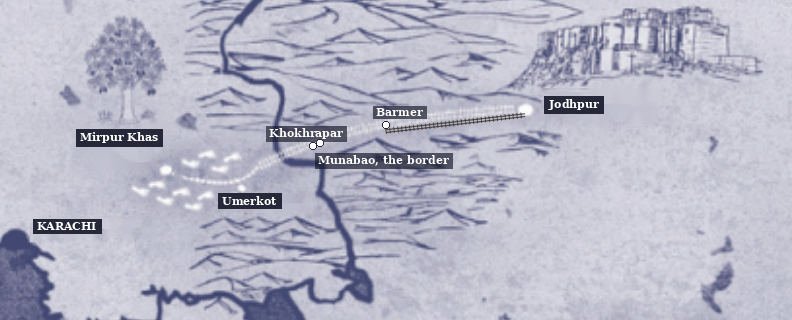
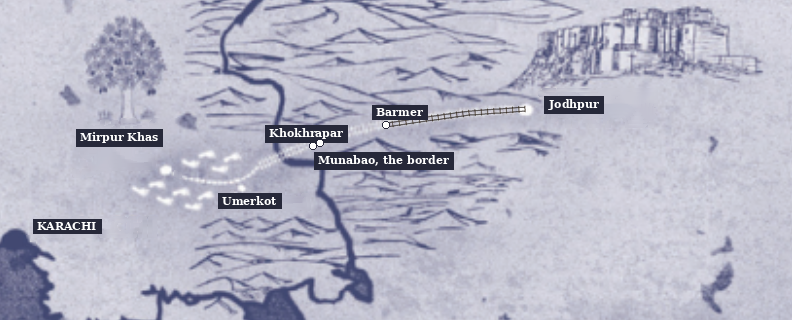
Notation fixes

Changed region(s): [[0.3333, 0.375, 0.5758, 0.5312], [0.4545, 0.3125, 0.6667, 0.4375]]

diff --git a/hacks/TheNightTrail/js/data.js b/hacks/TheNightTrail/js/data.js
@@ -58,7 +58,7 @@ const INTRO_SLIDES = [
     heading: "A Line Is Drawn",
     date: "Mirpur Khas, August 1947",
     tag: "Institutional Oppression · Expose the Problem · The System Exposed",
-    body: "Independence comes with a price. The British have decided to split the land in two: Pakistan for the Muslim-majority regions, and India for the rest. Papa says governments made this decision, not the families who will have to live with it. The Indian Independence Act, passed by the British Parliament, directly caused the division into two countries (Britannica School, “Partition of India”; Congressional Research Service, IF13000).",
+    body: "Independence comes with a price. The British have decided to split the land in two: Pakistan for the Muslim-majority regions, and India for the rest. Papa says governments made this decision, not the families who will have to live with it. The Indian Independence Act, passed by the British Parliament, directly caused the division into two countries (Wikipedia, “Partition of India”).",
   },
   {
     heading: "An Idea Worth Killing For",
@@ -69,7 +69,7 @@ const INTRO_SLIDES = [
   {
     heading: "Sir Cyril Radcliffe",
     date: "Mirpur Khas, August 1947",
-    body: "Papa read in the newspaper that the border was drawn by a British lawyer who had never set foot in India before this year. He worked from maps, in just a few weeks. The line cuts through provinces, villages, and families almost overnight. Nobody asked us.",
+    body: "Papa read in the newspaper that the border was drawn by a British lawyer who had never been east of Paris and was given about five weeks to draw the line (Wikipedia, “Cyril Radcliffe”). The line cuts through provinces, villages, and families almost overnight. Nobody asked us.",
   },
   {
     heading: "Mirpur Khas",
@@ -79,7 +79,7 @@ const INTRO_SLIDES = [
   {
     heading: "The Largest Migration in History",
     date: "Mirpur Khas, August 1947",
-    body: "Papa says about 15 million people will cross the new border in both directions. Hindus and Sikhs are moving toward India, and Muslims toward Pakistan. Many will not survive the journey.",
+    body: "Papa says between 12 and 20 million people will be displaced along religious lines as the new border is drawn (Wikipedia, “Partition of India”). Hindus and Sikhs are moving toward India, and Muslims toward Pakistan. Many will not survive the journey.",
   },
   {
     heading: "A Choice",
@@ -90,7 +90,7 @@ const INTRO_SLIDES = [
   {
     heading: "Not by Train",
     date: "Mirpur Khas, August 1947",
-    body: "The railway would be faster, but trains have become targets for violence from every side, and word is spreading about trains that never reach their destination. Papa won’t risk it. We will walk, joining a slow caravan of families leaving Sindh.",
+    body: "The railway would be faster, but trains have become targets for violence from every side (Wikipedia, “1947 Amritsar train massacre”; Wikipedia, “1947 Kamoke train massacre”), and word is spreading about trains that never reach their destination. Papa won’t risk it. We will walk, joining a slow caravan of families leaving Sindh.",
   },
   {
     heading: "This Is Their Story",
@@ -106,29 +106,30 @@ const EPILOGUE_SLIDES = [
     heading: "1947: The First War",
     date: "1947",
     tag: "Revolution and Reflection · Mirror to Society",
-    body: "Only months after we crossed, India and Pakistan are at war over Kashmir, a princely state neither side will let go of (Britannica, “Kashmir”). The same two-nation idea that drew our line now draws soldiers to a mountain border. The violence of Partition did not end at the crossing. It became policy, then army, then war.",
+    body: "Only months after we crossed, India and Pakistan are at war over Kashmir, a princely state neither side will let go of (Wikipedia, “Indo-Pakistani war of 1947–1948”). The same two-nation idea that drew our line now draws soldiers to a mountain border. The violence of Partition did not end at the crossing. It became policy, then army, then war.",
   },
   {
     heading: "1965: The Second War",
     date: "1965",
     tag: "Revolution and Reflection · Mirror to Society",
-    body: "Eighteen years later, the two countries are at war again, still over Kashmir and still over the same line. A ceasefire is brokered, and a peace agreement is signed in Tashkent (Britannica, “Tashkent Declaration”). It holds for a while, then it doesn’t. The idea that split a subcontinent into us and them has outlived the generation that walked through Partition.",
+    body: "Eighteen years later, the two countries are at war again, still over Kashmir and still over the same line. A UN ceasefire ends the fighting, and a peace agreement is signed in Tashkent, brokered by the Soviet Union (Wikipedia, “Tashkent Declaration”). It holds for a while, then it doesn’t. The idea that split a subcontinent into us and them has outlived the generation that walked through Partition.",
   },
   {
     heading: "1999: Kargil",
     date: "1999",
     tag: "Revolution and Reflection · Mirror to Society",
-    body: "By 1999 both India and Pakistan possess nuclear weapons. That summer, fighting breaks out in the mountains above Kargil (Britannica, “Kargil War”). Ordinary soldiers, following orders, die over high, cold ground for a line drawn by people long dead. The ideology of 1947 is no longer even argued over. It has become simply how things are, worth any cost to defend.",
+    body: "By 1999 both India and Pakistan possess nuclear weapons. That summer, fighting breaks out in the mountains above Kargil (Wikipedia, “Kargil War”). Ordinary soldiers, following orders, die over high, cold ground for a line drawn by people long dead. The ideology of 1947 is no longer even argued over. It has become simply how things are, worth any cost to defend.",
   },
   {
     heading: "2025: Operation Sindoor",
     date: "2025",
     tag: "Revolution and Reflection · Mirror to Society",
-    body: "In April 2025, 26 civilians were killed in an attack on tourists in the Baisaran Valley near Pahalgam, Jammu and Kashmir (Al Jazeera, April 2025). India attributed the attack to terrorists, and in May it struck alleged terrorist targets inside Pakistan. The operation takes its name from sindoor, the red vermilion worn by married Hindu women, for the wives the attack suddenly widowed. Violence becomes retaliation becomes, again, a ceasefire within days. The pattern set in August 1947 repeats itself, smaller each time, never finished.",
+    body: "In April 2025, 26 civilians were killed in an attack on tourists in the Baisaran Valley near Pahalgam, Jammu and Kashmir, where gunmen asked victims their religion before shooting them (Al Jazeera, April 23, 2025; France 24, April 30, 2025). India attributed the attack to terrorists and on May 7 struck alleged terrorist targets inside Pakistan (Wikipedia, “Operation Sindoor”; Congressional Research Service, IF13000). The operation takes its name from sindoor, the red vermilion worn by married Hindu women, for the wives the attack suddenly widowed. Violence becomes retaliation becomes, again, a ceasefire within days. The pattern set in August 1947 repeats itself, smaller each time, never finished.",
   },
   {
     heading: "A Line That Hasn't Closed",
     date: "Years later",
+    analysis: "What this shows about human nature: when differences of culture, ethnicity, or religion are prominent, people tend to divide themselves into superior and inferior groups. The warning is never to let a government or outside force divide people by religion, and the hope is to find unity in our community and make diversity a priority.",
     tag: "Revolution and Reflection · Mirror to Society",
     body: "More than seventy-five years after Partition, the border that sent us walking into the Thar Desert by night is still being fought over, still being crossed, still ending lives on both sides. The ideology that justified one line has justified every war since. This is one family’s story, fictional and small. In one form or another, it happened to millions, and the oppression Partition set in motion, ideological, institutional, interpersonal, and the quiet internalized kind, never fully closed the line it drew.",
   },
@@ -136,13 +137,22 @@ const EPILOGUE_SLIDES = [
 
 const CITATIONS = [
   "Encyclopaedia Britannica, School Edition. “Partition of India.” https://school.eb.com/levels/high/article/partition-of-India/640159",
-  "Congressional Research Service. IF13000. https://www.congress.gov/crs-product/IF13000",
-  "Encyclopaedia Britannica. “Kashmir.” https://www.britannica.com/place/Kashmir-region-Indian-subcontinent/The-Kashmir-problem",
-  "Encyclopaedia Britannica. “Tashkent Declaration (1966).” https://www.britannica.com/event/Tashkent-Agreement",
-  "Encyclopaedia Britannica. “Kargil War (1999).” https://www.britannica.com/event/Kargil-War",
+  "Congressional Research Service. “India-Pakistan Conflict in Spring 2025,” IF13000, May 13, 2025. https://www.congress.gov/crs-product/IF13000",
+  "Wikipedia. “Partition of India.” https://en.wikipedia.org/wiki/Partition_of_India",
+  "Wikipedia. “Cyril Radcliffe.” https://en.wikipedia.org/wiki/Cyril_Radcliffe",
+  "Wikipedia. “Indo-Pakistani war of 1947–1948.” https://en.wikipedia.org/wiki/Indo-Pakistani_war_of_1947%E2%80%931948",
+  "Wikipedia. “Tashkent Declaration.” https://en.wikipedia.org/wiki/Tashkent_Declaration",
+  "Wikipedia. “Kargil War.” https://en.wikipedia.org/wiki/Kargil_War",
+  "Wikipedia. “Mirpur Khas.” https://en.wikipedia.org/wiki/Mirpur_Khas",
+  "Wikipedia. “1947 Amritsar train massacre.” https://en.wikipedia.org/wiki/1947_Amritsar_train_massacre",
+  "Wikipedia. “1947 Kamoke train massacre.” https://en.wikipedia.org/wiki/1947_Kamoke_train_massacre",
   "Al Jazeera. “‘Act of war’: What happened in Kashmir attack that killed 26 tourists?” April 23, 2025. https://www.aljazeera.com/news/2025/4/23/act-of-war-what-happened-in-kashmir-attack-that-killed-26-tourists",
+  "France 24. “‘Are you a Hindu?’: Kashmir attack survivors say gunmen asked their religion before opening fire.” April 30, 2025. https://www.france24.com/en/asia-pacific/20250430-are-you-a-hindu-kashmir-attack-survivors-say-gunmen-asked-religion-before-opening-fire-pakistan-india",
+  "Wikipedia. “Operation Sindoor.” https://en.wikipedia.org/wiki/Operation_Sindoor",
   "Hiranandani, Veera. The Night Diary.",
 ];
+
+const RESISTANCE_ANALYSIS = "Resistance here is quiet and personal. Nisha does not defeat the forces that split her family, but she keeps her mother’s jewelry, cooks with Kazi’s methods, and returns to school and lentils. Each ordinary act refuses the idea that the home and family she lost are lost for good.";
 
 const SUPPLY_ITEMS = [
   { id: "food",    name: "Food",        unit: "lbs",    weight: 1 },
@@ -522,8 +532,10 @@ const TRAIN_EVENT = {
 // proportion to each landmark's place in the journey.
 const ROUTE_WIDTH = 792;
 const ROUTE_HEIGHT = 320;
+// The railway follows the dotted route from Barmer to Jodhpur (route.png pixels).
+const RAIL_POINTS = [[386, 125], [392.7, 124], [399.3, 123], [406, 122], [412.7, 121], [419.3, 120], [426, 119], [432.1, 118.1], [438.3, 117.3], [444.4, 116.4], [450.6, 115.6], [456.7, 114.7], [462.9, 113.9], [469, 113], [475.2, 112.6], [481.4, 112.1], [487.7, 111.7], [493.9, 111.2], [500.1, 110.8], [506.3, 110.3], [512.6, 109.9], [518.8, 109.4], [525, 109]];
 // Pixel path of the dotted route in route.png (792x320), used to move the family marker along the curve.
-const ROUTE_PATH = [[166, 170], [172, 174.1], [178, 174.4], [184, 174.7], [190, 175], [196, 176.1], [202, 179.5], [208, 181], [214, 182], [220, 182], [226, 181.7], [232, 181.9], [241, 188], [247, 171.6], [253, 168.3], [259, 165.2], [265, 164.8], [271, 164.3], [277, 163.9], [283, 163.5], [289, 163], [295, 162.6], [301, 162.2], [307, 161.8], [313, 146], [320, 143], [326, 136.4], [332, 134], [338, 132.8], [344, 129.5], [350, 128.8], [356, 128.6], [362, 128.4], [368, 128.2], [374, 128.1], [380, 127.9], [386, 125], [392, 119.3], [398, 116.6], [404, 114.2], [410, 113.2], [416, 112.3], [422, 112.1], [428, 112.3], [434, 112.2], [440, 112], [446, 111.8], [452, 111.2], [458, 111.2], [464, 111.2], [470, 111.2], [476, 111.2], [482, 111.2], [488, 111.1], [494, 110.9], [500, 110.8], [506, 110.3], [512, 110.2], [518, 110.1], [525, 109]];
+const ROUTE_PATH = [[166, 170], [172, 172.2], [178, 174.5], [184, 176.8], [190, 179], [196.2, 180], [202.5, 181], [208.8, 182], [215, 183], [221.5, 184.2], [228, 185.5], [234.5, 186.8], [241, 188], [245.8, 182.5], [250.5, 177], [255.2, 171.5], [260, 166], [266, 162.8], [272, 159.6], [278, 156.4], [284, 153.2], [290, 150], [297.7, 148.7], [305.3, 147.3], [313, 146], [320, 143], [327, 140.5], [334, 138], [341, 135.5], [348, 133], [354.3, 131.7], [360.7, 130.3], [367, 129], [373.3, 127.7], [379.7, 126.3], [386, 125], [392.7, 124], [399.3, 123], [406, 122], [412.7, 121], [419.3, 120], [426, 119], [432.1, 118.1], [438.3, 117.3], [444.4, 116.4], [450.6, 115.6], [456.7, 114.7], [462.9, 113.9], [469, 113], [475.2, 112.6], [481.4, 112.1], [487.7, 111.7], [493.9, 111.2], [500.1, 110.8], [506.3, 110.3], [512.6, 109.9], [518.8, 109.4], [525, 109]];
 
 const MAP_WAYPOINTS = [
   { miles: 0,   x: 0.210, y: 0.531 }, // Mirpur Khas

diff --git a/hacks/TheNightTrail/js/game.js b/hacks/TheNightTrail/js/game.js
@@ -348,11 +348,46 @@ function triggerKnifeEvent() {
   showEventModal(KNIFE_EVENT);
 }
 
+function playTrainRide(onDone) {
+  const train = document.getElementById("map-train");
+  const marker = document.getElementById("map-marker");
+  const points = RAIL_POINTS;
+  train.classList.add("riding");
+  marker.style.transition = "none";
+  let k = 0;
+  const step = () => {
+    const [x, y] = points[k];
+    const left = `${(x / ROUTE_WIDTH) * 100}%`;
+    const top = `${(y / ROUTE_HEIGHT) * 100}%`;
+    train.style.left = left;
+    train.style.top = top;
+    marker.style.left = left;
+    marker.style.top = top;
+    k++;
+    if (k < points.length) {
+      setTimeout(step, 60);
+    } else {
+      train.classList.remove("riding");
+      marker.style.transition = "";
+      onDone();
+    }
+  };
+  step();
+}
+
 function trainLootersResolve(opening) {
   if (playedCharacterDied()) return endGame(false, playedCharacterDeathMessage());
   if (state.party.every((m) => m.health <= 0)) return endGame(false, "The family did not make it to Jodhpur.");
-  state.miles = TOTAL_MILES;
-  endGame(true, jodhpurEndingBody(opening));
+  state.log("The train pulls out of Barmer toward Jodhpur.", "milestone");
+  document.querySelectorAll("#trail-actions button").forEach((b) => { b.disabled = true; });
+  playTrainRide(() => {
+    document.querySelectorAll("#trail-actions button").forEach((b) => { b.disabled = false; });
+    updateRestAvailability();
+    updateTrainAvailability();
+    updatePaceAvailability();
+    state.miles = TOTAL_MILES;
+    endGame(true, jodhpurEndingBody(opening));
+  });
 }
 
 function triggerTrainLootersEvent() {
@@ -618,6 +653,7 @@ function endGame(won, message) {
   document.getElementById("end-tag").textContent = won ? "Resistance & Revolution · Taking Action/Resistance/Healing · Revolution and Reflection · Mirror to Society" : "";
   document.getElementById("end-title").textContent = won ? "A New Home" : "The Journey Ends Here";
   document.getElementById("end-body").textContent = message;
+  document.getElementById("end-analysis").textContent = won ? `Literary analysis: ${RESISTANCE_ANALYSIS}` : "";
   document.getElementById("end-helped").textContent = state.peopleHelped > 0
     ? `Along the way, you helped ${state.peopleHelped} ${state.peopleHelped === 1 ? "person" : "people"}.`
     : "You made this journey without stopping to help anyone else.";

diff --git a/hacks/TheNightTrail/index.html b/hacks/TheNightTrail/index.html
@@ -79,6 +79,7 @@ search_exclude: true
       <div id="map-wrap">
         <img src="{{ site.baseurl }}/hacks/TheNightTrail/images/route.png" alt="Map of the route from Mirpur Khas to Jodhpur, 1947" id="trail-map">
         <div id="map-marker" title="Your family"></div>
+        <div id="map-train"></div>
       </div>
       <div id="trail-log"></div>
       <div id="trail-actions">
@@ -106,6 +107,7 @@ search_exclude: true
     <h2 id="end-title"></h2>
     <p id="end-body"></p>
     <p id="end-helped" class="tagline"></p>
+    <p id="end-analysis" class="analysis-note"></p>
     <ul id="end-roster"></ul>
     <div id="end-citations"></div>
     <div id="end-actions">

diff --git a/hacks/TheNightTrail/css/style.css b/hacks/TheNightTrail/css/style.css
@@ -653,6 +653,23 @@ input[type="text"] {
   font-size: 15px;
 }
 
+#map-train {
+  position: absolute;
+  width: 26px;
+  height: 10px;
+  transform: translate(-50%, -50%);
+  display: none;
+  border-radius: 2px;
+  border: 1px solid #14100b;
+  background: repeating-linear-gradient(90deg, #ffd166 0 3px, #2a2118 3px 6px);
+  transition: left 0.06s linear, top 0.06s linear;
+  z-index: 2;
+}
+
+#map-train.riding {
+  display: block;
+}
+
 #map-marker::after {
   content: "";
   position: absolute;
